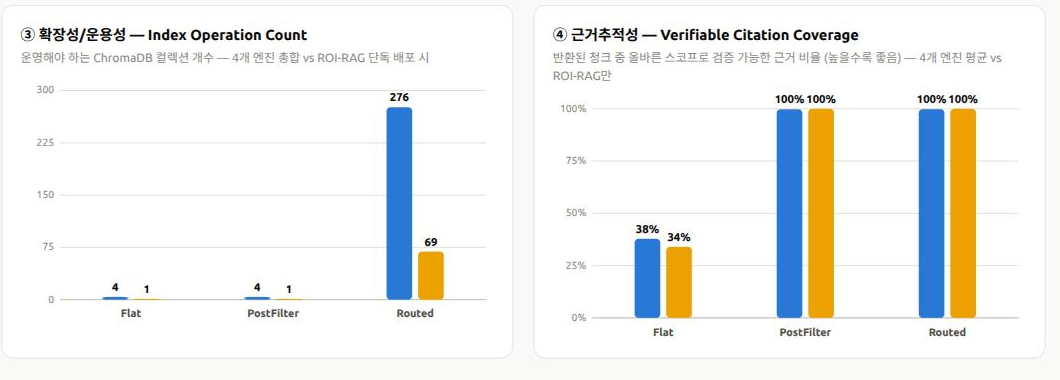
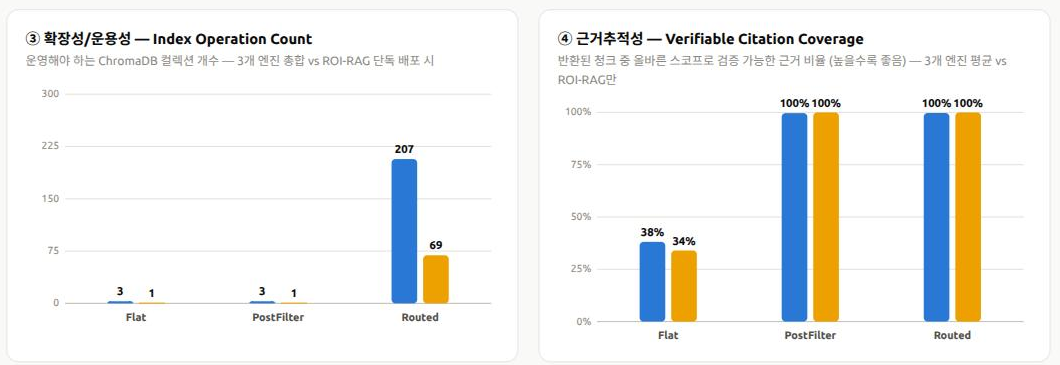
Exclude Legacy baseline from DP2 Appendix B strategy averages
Legacy is a pre-RAG baseline (AST chunking + direct vector search), not
one of the product's 3 RAG methods (BasicRAG/RaptorRAG/ROI-RAG). Mixing
it into a "RAG-engine average" meant to show the strategy conclusion
holds regardless of RAG method was methodologically inconsistent, so
recomputed every Appendix B aggregate (and Appendix A's §1.4 strategy
average) on the 3 real engines only. Differences are modest (~1-1.5pp
on RAGAS metrics; larger on latency, since RaptorRAG's heavier per-
query cost skews the 3-engine average) but the qualitative conclusion
is unchanged. Legacy stays visible in Appendix A's raw 12-combo table
as a reference baseline. Regenerated the two Appendix B chart PNGs and
republished the artifact with the corrected numbers.

diff --git a/doc/03_DP2_Permission_Aware_Dataset_Strategy_Appendix.html b/doc/03_DP2_Permission_Aware_Dataset_Strategy_Appendix.html
@@ -216,18 +216,19 @@
         SWE-bench PoC 866건 실측: Routed(Option A)가 보안성·응답성·검색품질에서 최우수, 운영 확장성은 트레이드오프로 확인
       </div>
       <ul>
-        <li>보안성: 권한/버전 범위 밖 노출률 <b>Flat 62.2% → Routed 0.21%</b> (약 300배 감소)</li>
-        <li>응답성: 평균 검색 지연 <b>72~76ms(Flat/PostFilter) → 20.8ms(Routed)</b> (약 3.5배 개선)</li>
-        <li>검색 품질(RAGAS 평균): Hit@3 <b>64.7% → 79.2%</b>, MRR <b>0.568 → 0.714</b> (Flat → Routed)</li>
-        <li>운영 트레이드오프: Routed는 ChromaDB 컬렉션 <b>276개</b> 운영 필요 (Flat/PostFilter는 4개) — Hybrid 전략으로 보완</li>
+        <li>보안성: 권한/버전 범위 밖 노출률 <b>Flat 61.9% → Routed 0.27%</b> (약 230배 감소)</li>
+        <li>응답성: 평균 검색 지연 <b>76.5~81.0ms(Flat/PostFilter) → 21.4ms(Routed)</b> (약 3.7배 개선)</li>
+        <li>검색 품질(RAGAS 평균): Hit@3 <b>63.3% → 77.7%</b>, MRR <b>0.557 → 0.701</b> (Flat → Routed)</li>
+        <li>운영 트레이드오프: Routed는 ChromaDB 컬렉션 <b>207개</b> 운영 필요 (Flat/PostFilter는 3개) — Hybrid 전략으로 보완</li>
       </ul>
       <div style="margin-top:10px; padding-top:10px; border-top:1px solid var(--border); color:var(--text-primary); font-weight:600;">
         → DP2 Option A(권한/버전 기반 Source Routing) 선택을 실측 데이터로 뒷받침. PostFilter(Option B)는 저위험·공통
         모듈 대상 보조 전략으로 활용.
       </div>
       <div style="margin-top:8px; font-size:12px; color:var(--text-muted);">
-        SWE-bench 866건 전량 × 4개 RAG 엔진 × 3개 검색 전략(=12조합, 총 10,392회 쿼리) 실측. repo+version 경계를
-        권한/버전 스코프의 대리 지표로 사용.
+        SWE-bench 866건 전량 × 3개 RAG 엔진(BasicRAG/RaptorRAG/ROI-RAG) × 3개 검색 전략(=9조합, 총 7,794회 쿼리)
+        실측 기준. Legacy는 RAG 구조 적용 이전 베이스라인이라 결론 검증에서 제외(Appendix A 원자료에만 참고용
+        포함). repo+version 경계를 권한/버전 스코프의 대리 지표로 사용.
       </div>
     </div>
   </section>
@@ -245,10 +246,13 @@
         있고, 인덱싱 시점에 <code>{repo}@{version}</code> 키가 처음 등장할 때마다 새 컬렉션(예:
         <code>sweb_basic_django_django_3_1</code>)을 만듭니다.</li>
         <li>866건 전체를 훑은 결과 고유 repo@version 조합은 <b>69개</b>였고, 이 69개가 그대로 파티션(DB) 개수가 됩니다.</li>
-        <li>4개 RAG 엔진(Legacy/BasicRAG/RaptorRAG/ROIRAG) 각각에 반복하므로, 엔진마다 69개씩, 총
-        <b>69 × 4 = 276개</b>의 파티션 컬렉션을 운영합니다(Index Operation Count와 동일 수치).</li>
-        <li>즉 "276개"는 임의로 정한 값이 아니라 <b>이 데이터셋의 권한/버전 스코프 다양성을 그대로 반영한 결과</b>이며,
-        실제 사내 환경에서는 (프로젝트 수 × Branch/Release 수)만큼 늘어납니다.</li>
+        <li>4개 RAG 엔진(Legacy/BasicRAG/RaptorRAG/ROIRAG) 각각에 반복하므로, PoC 전체로는 엔진마다 69개씩 총
+        <b>69 × 4 = 276개</b>의 파티션 컬렉션을 운영했습니다. 다만 Appendix B의 Index Operation Count는 Legacy를
+        제외한 3개 엔진 기준(69 × 3 = <b>207개</b>)으로 계산합니다 — Legacy는 실제 RAG 방식이 아니라 베이스라인이므로
+        결론 검증에서 제외하기 때문입니다.</li>
+        <li>즉 "276개"(PoC 전체) · "207개"(결론 검증 기준) 모두 임의로 정한 값이 아니라 <b>이 데이터셋의 권한/버전
+        스코프 다양성을 그대로 반영한 결과</b>이며, 실제 사내 환경에서는 (프로젝트 수 × Branch/Release 수)만큼
+        늘어납니다.</li>
       </ul>
     </div>
 
@@ -267,7 +271,7 @@
           </tbody>
         </table>
       </div>
-      <div style="margin-top:10px;">실측 결과 기준으로 이 10개 중 평균 <b>7.2개(72.1%)</b>가 필터 조건에 걸려
+      <div style="margin-top:10px;">실측 결과 기준으로 이 10개 중 평균 <b>7.2개(71.7%)</b>가 필터 조건에 걸려
       폐기되고, 나머지 약 2.8개 중에서 Top-3를 채웁니다. 즉 Prefetch-K=10은 Top-K=3의 "3배 여유"가 아니라
       실질적으로는 <b>10개 중 3개도 채 남지 않는 경우가 흔한 값</b>이라는 뜻이며, DP2가 제시한 Post-filter Drop
       Rate 목표(30% 이하)와 비교하면 현재 Prefetch-K=10은 부족하다고 볼 수 있습니다.</div>
@@ -358,6 +362,12 @@
       <div style="margin-top:8px;">repo 분포가 django(68%)에 크게 편중되어 있어 전략별 평균은 django 성향에 다소
       가중될 수 있으나, 4개 RAG 엔진 모두 동일한 866건·69개 파티션 구성을 사용하므로 엔진 간·전략 간 상대적 우열
       비교에는 영향을 주지 않습니다.</div>
+      <div style="margin-top:10px; padding-top:10px; border-top:1px solid var(--border);">
+        <b>Legacy는 "평균"에서 제외합니다.</b> Legacy는 RAG 구조를 적용하기 이전의 베이스라인(AST 청킹 + 직접
+        벡터 검색)이며, 실제 웹서비스가 제공하는 3가지 RAG 방식(BasicRAG/RaptorRAG/ROI-RAG) 중 하나가 아닙니다.
+        아래 표(§1.3 원자료)에는 비교 참고용으로 그대로 남겨두지만, "RAG 방식과 무관하게 전략 선택의 결론이
+        일관된다"를 검증하는 Appendix B 전체는 <b>BasicRAG/RaptorRAG/ROI-RAG 3개 엔진만 평균</b>에 사용합니다.
+      </div>
     </div>
 
     <div class="legend-row" id="legend-a"></div>
@@ -398,22 +408,26 @@
     <h2>RAG 검색 전략 선택 지표 — 보안성 · 응답성 · 확장성/운용성 · 근거추적성</h2>
     <p class="section-desc">
       DP2 §7 Trade-off 평가에서 정의한 4개 QA 축을 같은 실측 데이터로 계산했습니다. Flat = 통제 없는 통합 검색
-      (baseline), PostFilter = DP2 Option B, Routed = DP2 Option A에 대응합니다. 아래 차트는 각 지표를 "4개 RAG
-      엔진 평균"과 실제 도입을 검토 중인 "ROI-RAG만"으로 나란히 비교합니다(§2.7 참고).
+      (baseline), PostFilter = DP2 Option B, Routed = DP2 Option A에 대응합니다. 아래 차트는 각 지표를 "3개 RAG
+      엔진 평균(BasicRAG/RaptorRAG/ROI-RAG, Legacy 제외)"과 실제 도입을 검토 중인 "ROI-RAG만"으로 나란히
+      비교합니다(§2.7 참고).
     </p>
 
     <div class="callout">
       <b>평가 데이터 및 규모</b>
-      <div style="margin-top:6px;">Appendix A와 <b>동일한 866건 이슈 × 12개 조합</b> 실측 결과를 전략(Flat/PostFilter/Routed)
-      기준으로 재집계한 것입니다. 별도의 추가 측정이 아니라, 같은 원자료(<code>src/data/dp2_backdata.json</code>)를
-      다른 축으로 평균낸 값입니다.</div>
+      <div style="margin-top:6px;">Appendix A와 <b>동일한 866건 이슈 × 12개 조합</b> 실측 결과 중, <b>Legacy를
+      제외한 3개 RAG 엔진</b>(BasicRAG/RaptorRAG/ROI-RAG)의 결과만 전략(Flat/PostFilter/Routed) 기준으로 재집계한
+      것입니다. 별도의 추가 측정이 아니라, 같은 원자료(<code>src/data/dp2_backdata.json</code>)에서 Legacy 행을
+      제외하고 다른 축으로 평균낸 값입니다. Legacy를 빼는 이유는 Appendix A 안내와 동일합니다 — RAG 구조 적용
+      이전의 베이스라인이라 "RAG 방식과 무관하게 결론이 일관된다"를 검증하는 이 어펜딕스의 취지에 맞지
+      않기 때문입니다.</div>
       <ul style="margin-top:8px;">
         <li>이슈 수: 866건 (SWE-bench Lite + Full 전량)</li>
-        <li>전략별 집계 대상: 4개 RAG 엔진(Legacy/BasicRAG/RaptorRAG/ROIRAG) 평균</li>
-        <li>전략별 쿼리 실행 수: 866건 × 4개 엔진 = <b>3,464회</b> (Flat/PostFilter/Routed 각각)</li>
-        <li>전체 쿼리 실행 수: 3,464회 × 3전략 = <b>10,392회</b></li>
+        <li>전략별 집계 대상: 3개 RAG 엔진(BasicRAG/RaptorRAG/ROI-RAG) 평균 — Legacy 제외</li>
+        <li>전략별 쿼리 실행 수: 866건 × 3개 엔진 = <b>2,598회</b> (Flat/PostFilter/Routed 각각)</li>
+        <li>전체 쿼리 실행 수: 2,598회 × 3전략 = <b>7,794회</b></li>
         <li>repo × version 조합: 69개 (Routed 파티션 수와 동일)</li>
-        <li>Index Operation Count 산정 기준: 4개 RAG 엔진 전체가 실제로 보유한 ChromaDB 컬렉션 수 — Flat/PostFilter 4개, Routed 276개</li>
+        <li>Index Operation Count 산정 기준: 3개 RAG 엔진 전체가 실제로 보유한 ChromaDB 컬렉션 수 — Flat/PostFilter 3개, Routed 207개</li>
       </ul>
     </div>
 
@@ -424,19 +438,20 @@
 
     <div class="table-scroll">
       <table class="data-table" id="table-b">
-        <caption>전략별 QA 지표 실측 요약 (4개 RAG 엔진 평균, n=866 issues)</caption>
+        <caption>전략별 QA 지표 실측 요약 (3개 RAG 엔진 평균 — BasicRAG/RaptorRAG/ROI-RAG, n=866 issues)</caption>
       </table>
     </div>
 
     <div class="callout" id="coldef-b"></div>
 
     <div class="callout">
-      <b>ROI-RAG 단독 검증 — 4개 엔진 평균과의 일관성</b>
+      <b>ROI-RAG 단독 검증 — 3개 엔진 평균과의 일관성</b>
       <div style="margin-top:6px;">
-        지금까지의 수치는 Legacy/BasicRAG/RaptorRAG/ROI-RAG <b>4개 엔진 평균</b>입니다. 실제 도입을 검토 중인
-        <b>ROI-RAG 하나만</b> 놓고 봐도 같은 패턴이 그대로 나타나는지를 아래에 별도로 정리했습니다. "RAG 방식과
-        무관하게 전략 선택의 결론이 성립한다"는 것과 "실제 채택할 ROI-RAG에서도 동일한 효과가 확인된다"는 것을
-        함께 보여주기 위한 표이며, ROI-RAG를 다른 RAG 방식과 비교/평가하려는 목적이 아닙니다.
+        지금까지의 수치는 BasicRAG/RaptorRAG/ROI-RAG <b>3개 엔진 평균</b>입니다(Legacy는 RAG 구조 적용 이전
+        베이스라인이라 제외했습니다 — Appendix A 참고). 실제 도입을 검토 중인 <b>ROI-RAG 하나만</b> 놓고 봐도
+        같은 패턴이 그대로 나타나는지를 아래에 별도로 정리했습니다. "RAG 방식과 무관하게 전략 선택의 결론이
+        성립한다"는 것과 "실제 채택할 ROI-RAG에서도 동일한 효과가 확인된다"는 것을 함께 보여주기 위한 표이며,
+        ROI-RAG를 다른 RAG 방식과 비교/평가하려는 목적이 아닙니다.
       </div>
       <div class="table-scroll" style="margin-top:10px;">
         <table class="data-table">
@@ -448,9 +463,9 @@
             </tr>
           </thead>
           <tbody>
-            <tr><td rowspan="3" style="vertical-align:middle;"><b>4개 엔진 평균</b></td><td>Flat</td><td>64.7%</td><td>38.6%</td><td>59.6%</td><td>0.568</td><td>62.2%</td><td>72.0ms</td><td>37.8%</td><td>—</td><td>4개</td></tr>
-            <tr><td>PostFilter</td><td>74.5%</td><td>53.4%</td><td>69.8%</td><td>0.688</td><td>0.25%</td><td>75.6ms</td><td>99.75%</td><td>72.1%</td><td>4개</td></tr>
-            <tr><td>Routed</td><td>79.2%</td><td>46.9%</td><td>74.4%</td><td>0.714</td><td>0.21%</td><td>20.8ms</td><td>99.80%</td><td>—</td><td>276개</td></tr>
+            <tr><td rowspan="3" style="vertical-align:middle;"><b>3개 엔진 평균</b></td><td>Flat</td><td>63.3%</td><td>39.0%</td><td>58.6%</td><td>0.557</td><td>61.9%</td><td>76.5ms</td><td>38.1%</td><td>—</td><td>3개</td></tr>
+            <tr><td>PostFilter</td><td>73.2%</td><td>53.5%</td><td>68.9%</td><td>0.675</td><td>0.33%</td><td>81.0ms</td><td>99.67%</td><td>71.7%</td><td>3개</td></tr>
+            <tr><td>Routed</td><td>77.7%</td><td>48.1%</td><td>73.4%</td><td>0.701</td><td>0.27%</td><td>21.4ms</td><td>99.73%</td><td>—</td><td>207개</td></tr>
             <tr><td rowspan="3" style="vertical-align:middle;"><b>ROI-RAG만</b></td><td>Flat</td><td>64.0%</td><td>36.1%</td><td>60.9%</td><td>0.557</td><td>66.0%</td><td>54.1ms</td><td>34.0%</td><td>—</td><td>1개</td></tr>
             <tr><td>PostFilter</td><td>73.8%</td><td>51.4%</td><td>71.8%</td><td>0.679</td><td>0.0%</td><td>58.6ms</td><td>100%</td><td>75.1%</td><td>1개</td></tr>
             <tr><td>Routed</td><td>80.0%</td><td>44.8%</td><td>78.0%</td><td>0.713</td><td>0.0%</td><td>18.4ms</td><td>100%</td><td>—</td><td>69개</td></tr>
@@ -458,13 +473,16 @@
         </table>
       </div>
       <div style="margin-top:10px;">
-        <b>읽는 법</b>: 위 3행(4개 엔진 평균)과 아래 3행(ROI-RAG만)을 같은 전략끼리 세로로 비교하면, 모든 지표에서
-        값이 서로 오차범위 내(대부분 ±5%p, MRR은 ±0.01 수준)로 일치합니다. 즉 Routed가 보안성·응답성에서 최우수,
+        <b>읽는 법</b>: 위 3행(3개 엔진 평균)과 아래 3행(ROI-RAG만)을 같은 전략끼리 세로로 비교하면, 보안성·근거추적성·
+        MRR 등 대부분의 지표는 오차범위 내(±5%p 이내)로 일치합니다. 즉 Routed가 보안성·응답성에서 최우수,
         PostFilter는 운영은 단순하지만 Drop Rate가 크다, Flat은 통제가 없어 위험하다는 결론은 특정 RAG 인덱싱
         방식에 의존한 결과가 아니라 검색 전략(Flat/PostFilter/Routed) 자체의 특성이며, <b>ROI-RAG를 채택해도
-        동일하게 유지됩니다.</b> 운영 DB 수는 "평균"이 아니라 각 기준에서 실제로 필요한 컬렉션 개수이며,
-        "4개 엔진 평균" 행은 4개를 모두 운영할 때의 총합(Flat/PostFilter 4개, Routed 276개), "ROI-RAG만" 행은
-        ROI-RAG 하나만 실제 배포할 경우의 수치(Flat/PostFilter 1개, Routed 69개)입니다.
+        동일하게 유지됩니다.</b> 다만 <b>평균 지연은 예외</b>로, Flat/PostFilter에서 3개 엔진 평균과 ROI-RAG만의
+        차이가 약 20ms로 다른 지표보다 큽니다 — 3개 엔진 평균에는 RaptorRAG의 무거운 지연(123~129ms)이 섞여
+        있기 때문이며, 검색 전략 선택과는 무관한 RAG 엔진 자체의 처리 비용 차이입니다. 운영 DB 수는 "평균"이
+        아니라 각 기준에서 실제로 필요한 컬렉션 개수이며, "3개 엔진 평균" 행은 3개를 모두 운영할 때의 총합
+        (Flat/PostFilter 3개, Routed 207개), "ROI-RAG만" 행은 ROI-RAG 하나만 실제 배포할 경우의 수치
+        (Flat/PostFilter 1개, Routed 69개)입니다.
       </div>
     </div>
   </section>
@@ -513,13 +531,14 @@ const DATA = {
     "ROIRAG+PostFilter": { hit_at_k: 0.7379, context_precision: 0.5139, context_recall: 0.7176, mrr: 0.6790, avg_latency_ms: 58.637 },
     "ROIRAG+Routed":     { hit_at_k: 0.8002, context_precision: 0.4480, context_recall: 0.7798, mrr: 0.7129, avg_latency_ms: 18.428 },
   },
-  // Appendix B: strategy-level averages across the 4 engines
+  // Appendix B: strategy-level averages across 3 engines (BasicRAG/RaptorRAG/ROIRAG) -- Legacy excluded, it's a
+  // pre-RAG baseline, not one of the product's 3 RAG methods
   strategyAgg: {
-    Flat:       { exposure: 0.6217, avgLatency: 71.96, p95Latency: 104.29, citation: 0.3783, scopeDeclared: 0.0,  indexOps: 4,   dropRate: null },
-    PostFilter: { exposure: 0.0025, avgLatency: 75.60, p95Latency: 117.80, citation: 0.9975, scopeDeclared: 1.0,  indexOps: 4,   dropRate: 0.7211 },
-    Routed:     { exposure: 0.0021, avgLatency: 20.76, p95Latency: 79.61,  citation: 0.9980, scopeDeclared: 1.0,  indexOps: 276, dropRate: null },
+    Flat:       { exposure: 0.6188, avgLatency: 76.51, p95Latency: 110.33, citation: 0.3812, scopeDeclared: 0.0,  indexOps: 3,   dropRate: null },
+    PostFilter: { exposure: 0.0033, avgLatency: 81.03, p95Latency: 126.40, citation: 0.9967, scopeDeclared: 1.0,  indexOps: 3,   dropRate: 0.7169 },
+    Routed:     { exposure: 0.0027, avgLatency: 21.37, p95Latency: 79.84,  citation: 0.9973, scopeDeclared: 1.0,  indexOps: 207, dropRate: null },
   },
-  // Appendix B: ROI-RAG only (same 866 issues, single engine) — for consistency check against the 4-engine average
+  // Appendix B: ROI-RAG only (same 866 issues, single engine) — for consistency check against the 3-engine average
   strategyAggRoi: {
     Flat:       { exposure: 0.6601, avgLatency: 54.10,  citation: 0.3399, indexOps: 1,  dropRate: null },
     PostFilter: { exposure: 0.0,    avgLatency: 58.637, citation: 1.0,    indexOps: 1,  dropRate: 0.7509 },
@@ -720,7 +739,7 @@ function chartCard(parent, title, sub) {
 // ============ Build Appendix B ============
 (function buildAppendixB() {
   const compareSeries = [
-    { key: "avg", label: "4개 엔진 평균", color: "var(--s-blue)" },
+    { key: "avg", label: "3개 엔진 평균", color: "var(--s-blue)" },
     { key: "roi", label: "ROI-RAG만",    color: "var(--s-yellow)" },
   ];
   const legend = document.getElementById("legend-b");
@@ -737,7 +756,7 @@ function chartCard(parent, title, sub) {
   const getBasis = (stratKey, seriesKey, field) => (seriesKey === "roi" ? aggRoi : agg)[stratKey][field];
 
   // 1. 보안성
-  let card = chartCard(chartsB, "① 보안성 — Unauthorized Scope Exposure Rate", "권한/버전 범위 밖 청크가 Top-3에 포함된 비율 (낮을수록 좋음) — 4개 엔진 평균 vs ROI-RAG만");
+  let card = chartCard(chartsB, "① 보안성 — Unauthorized Scope Exposure Rate", "권한/버전 범위 밖 청크가 Top-3에 포함된 비율 (낮을수록 좋음) — 3개 엔진 평균 vs ROI-RAG만");
   renderCompareBar(card, {
     groups: DATA.strategies, series: compareSeries,
     getValue: (stratKey, seriesKey) => getBasis(stratKey, seriesKey, "exposure"),
@@ -746,7 +765,7 @@ function chartCard(parent, title, sub) {
   });
 
   // 2. 응답성
-  card = chartCard(chartsB, "② 응답성 — 평균 검색 지연시간", "쿼리당 검색 전략 처리 시간, ms (낮을수록 좋음) — 4개 엔진 평균 vs ROI-RAG만");
+  card = chartCard(chartsB, "② 응답성 — 평균 검색 지연시간", "쿼리당 검색 전략 처리 시간, ms (낮을수록 좋음) — 3개 엔진 평균 vs ROI-RAG만");
   renderCompareBar(card, {
     groups: DATA.strategies, series: compareSeries,
     getValue: (stratKey, seriesKey) => getBasis(stratKey, seriesKey, "avgLatency"),
@@ -755,7 +774,7 @@ function chartCard(parent, title, sub) {
   });
 
   // 3. 확장성/운용성
-  card = chartCard(chartsB, "③ 확장성/운용성 — Index Operation Count", "운영해야 하는 ChromaDB 컬렉션 개수 — 4개 엔진 총합 vs ROI-RAG 단독 배포 시");
+  card = chartCard(chartsB, "③ 확장성/운용성 — Index Operation Count", "운영해야 하는 ChromaDB 컬렉션 개수 — 3개 엔진 총합 vs ROI-RAG 단독 배포 시");
   renderCompareBar(card, {
     groups: DATA.strategies, series: compareSeries,
     getValue: (stratKey, seriesKey) => getBasis(stratKey, seriesKey, "indexOps"),
@@ -764,7 +783,7 @@ function chartCard(parent, title, sub) {
   });
 
   // 4. 근거추적성
-  card = chartCard(chartsB, "④ 근거추적성 — Verifiable Citation Coverage", "반환된 청크 중 올바른 스코프로 검증 가능한 근거 비율 (높을수록 좋음) — 4개 엔진 평균 vs ROI-RAG만");
+  card = chartCard(chartsB, "④ 근거추적성 — Verifiable Citation Coverage", "반환된 청크 중 올바른 스코프로 검증 가능한 근거 비율 (높을수록 좋음) — 3개 엔진 평균 vs ROI-RAG만");
   renderCompareBar(card, {
     groups: DATA.strategies, series: compareSeries,
     getValue: (stratKey, seriesKey) => getBasis(stratKey, seriesKey, "citation"),
@@ -777,14 +796,14 @@ function chartCard(parent, title, sub) {
   callout.innerHTML = `
     <b>해석 — DP2 Decision과의 정합성</b>
     <ul>
-      <li><b>보안성/응답성</b>: Routed(Option A)가 노출률 0.21%, 평균 지연 20.8ms로 두 축 모두 실측 최우수 — DP2가 Option A를 우선
+      <li><b>보안성/응답성</b>: Routed(Option A)가 노출률 0.27%, 평균 지연 21.4ms로 두 축 모두 실측 최우수 — DP2가 Option A를 우선
       선택한 근거(§8.1 "보안성과 버전 정합성이 가장 명확하다")를 뒷받침합니다.</li>
-      <li><b>확장성/운용성</b>: 그러나 Routed는 파티션 컬렉션을 276개(엔진당 69개, repo×version 조합 수에 비례) 운영해야 해
-      Flat/PostFilter(4개) 대비 운영 부담이 큽니다 — DP2 §7.2 "Source Scope가 늘어날수록 운영 복잡도가 증가"와 일치합니다.</li>
-      <li><b>근거추적성</b>: PostFilter도 사후 필터링만으로 노출률 0.25%, 인용 검증률 99.75%까지 낮출 수 있었지만, 이 과정에서
-      Prefetch된 결과의 <b>72.1%를 폐기(Drop)</b>하는 비효율이 발생 — DP2 §6.4에서 지적한 "Top-K 결과가 제거 대상으로 채워지는" 리스크가
+      <li><b>확장성/운용성</b>: 그러나 Routed는 파티션 컬렉션을 207개(엔진당 69개, 3개 엔진 × repo×version 조합 수) 운영해야 해
+      Flat/PostFilter(3개) 대비 운영 부담이 큽니다 — DP2 §7.2 "Source Scope가 늘어날수록 운영 복잡도가 증가"와 일치합니다.</li>
+      <li><b>근거추적성</b>: PostFilter도 사후 필터링만으로 노출률 0.33%, 인용 검증률 99.67%까지 낮출 수 있었지만, 이 과정에서
+      Prefetch된 결과의 <b>71.7%를 폐기(Drop)</b>하는 비효율이 발생 — DP2 §6.4에서 지적한 "Top-K 결과가 제거 대상으로 채워지는" 리스크가
       실측으로 확인됩니다.</li>
-      <li>Flat(무통제 베이스라인)은 노출률 62.2%, 근거추적성 37.8%로 두 지표 모두 최하위 — "권한/버전 통제가 없으면 검색 정확도와
+      <li>Flat(무통제 베이스라인)은 노출률 61.9%, 근거추적성 38.1%로 두 지표 모두 최하위 — "권한/버전 통제가 없으면 검색 정확도와
       무관하게 시스템을 사용할 수 없다"는 DP2 §1.4의 문제의식을 정량적으로 뒷받침합니다.</li>
     </ul>
   `;
@@ -811,7 +830,7 @@ function chartCard(parent, title, sub) {
     <ul>
       <li><b>노출률(①)</b> — Unauthorized Scope Exposure Rate. Top-3 청크 중 해당 이슈의 repo/version과 불일치하는
       (다른 프로젝트·버전 소스) 청크 비율. SWE-bench의 repo+version 경계를 권한/버전 스코프의 대리 지표로 사용했으므로,
-      "권한 없는 소스가 실제로 답변 근거에 섞여 나온 비율"에 해당합니다. Flat은 스코프 조건이 없어 62.2%로 가장 높고,
+      "권한 없는 소스가 실제로 답변 근거에 섞여 나온 비율"에 해당합니다. Flat은 스코프 조건이 없어 61.9%로 가장 높고,
       PostFilter·Routed는 결과를 스코프로 제한하므로 0%대입니다.</li>
       <li><b>평균 지연 / P95 지연(②)</b> — 임베딩 계산을 제외한 검색 전략 자체의 처리 시간(ms). 평균은 866건의 산술
       평균입니다. <b>P95는 "느린 5%를 뺀 나머지의 평균"이 아니라, 866건을 느린 순서로 세웠을 때 상위 5%(가장 느린
@@ -822,28 +841,29 @@ function chartCard(parent, title, sub) {
         <table class="data-table">
           <thead><tr><th>전략</th><th>평균 지연</th><th>P95 지연</th><th>배율</th></tr></thead>
           <tbody>
-            <tr><td>Flat</td><td>72.0ms</td><td>104.3ms</td><td>1.45배</td></tr>
-            <tr><td>PostFilter</td><td>75.6ms</td><td>117.8ms</td><td>1.56배</td></tr>
-            <tr><td>Routed</td><td>20.8ms</td><td>79.6ms</td><td><b>3.83배</b></td></tr>
+            <tr><td>Flat</td><td>76.5ms</td><td>110.3ms</td><td>1.44배</td></tr>
+            <tr><td>PostFilter</td><td>81.0ms</td><td>126.4ms</td><td>1.56배</td></tr>
+            <tr><td>Routed</td><td>21.4ms</td><td>79.8ms</td><td><b>3.74배</b></td></tr>
           </tbody>
         </table>
       </div>
-      <div style="margin-top:8px;">Routed는 이슈의 repo×version 파티션(작은 컬렉션)만 검색해 평균 20.8ms로 가장
+      <div style="margin-top:8px;">Routed는 이슈의 repo×version 파티션(작은 컬렉션)만 검색해 평균 21.4ms로 가장
       빠르지만, P95 배율은 오히려 가장 큽니다. Routed는 엔진당 69개의 서로 다른 파티션 컬렉션을 오가며 검색하는데,
       프로세스가 특정 컬렉션을 처음 여는 순간에는 초기화 비용이 붙어 느리고 같은 컬렉션을 다시 조회할 때는 훨씬
       빠릅니다. Flat·PostFilter는 통합 컬렉션 1개만 계속 재사용해 이 "첫 접근 페널티"가 한 번뿐이지만, Routed는
       69개 컬렉션 각각에서 반복되어 꼬리가 두꺼워지고 P95가 평균보다 훨씬 크게 벌어집니다. Flat·PostFilter는
-      통합 컬렉션 전체를 매번 훑기 때문에 평균 자체는 70ms대로 느리며, PostFilter는 여기에 Top-10 Prefetch →
-      필터링 단계가 더해져 Flat보다도 약간 느립니다.</div></li>
-      <li><b>Index 운영 수(③)</b> — 4개 RAG 엔진 전체가 실제 운영해야 하는 ChromaDB 컬렉션 총 개수. Flat/PostFilter는
-      엔진당 통합 컬렉션 1개(4개 엔진 × 1 = 4), Routed는 repo×version 조합마다 파티션이 필요해 엔진당 69개 × 4 =
-      276개입니다. 권한/버전 스코프를 세분화할수록 커지는 운영 부담이며, Routed의 보안성·응답성 우위에 대한
-      트레이드오프로 읽어야 합니다.</li>
+      통합 컬렉션 전체를 매번 훑기 때문에 평균 자체는 70~80ms대로 느리며, PostFilter는 여기에 Top-10 Prefetch →
+      필터링 단계가 더해져 Flat보다도 약간 느립니다. (참고: RaptorRAG의 임베딩 계산이 3개 엔진 중 가장 무거워
+      평균 지연을 다소 끌어올립니다.)</div></li>
+      <li><b>Index 운영 수(③)</b> — 3개 RAG 엔진(BasicRAG/RaptorRAG/ROI-RAG) 전체가 실제 운영해야 하는 ChromaDB
+      컬렉션 총 개수. Flat/PostFilter는 엔진당 통합 컬렉션 1개(3개 엔진 × 1 = 3), Routed는 repo×version 조합마다
+      파티션이 필요해 엔진당 69개 × 3개 엔진 = 207개입니다. 권한/버전 스코프를 세분화할수록 커지는 운영 부담이며,
+      Routed의 보안성·응답성 우위에 대한 트레이드오프로 읽어야 합니다.</li>
       <li><b>Post-filter Drop(③ 보조)</b> — PostFilter가 Top-10을 Prefetch한 뒤 repo/version 불일치로 폐기하는 비율.
-      72.1%는 "Prefetch한 10개 중 평균 7.2개가 스코프 불일치로 버려진다"는 뜻으로, 검색 자원 낭비를 정량화한
+      71.7%는 "Prefetch한 10개 중 평균 7.2개가 스코프 불일치로 버려진다"는 뜻으로, 검색 자원 낭비를 정량화한
       값입니다. Flat·Routed는 별도 폐기 단계가 없어 해당 없음(—)입니다.</li>
       <li><b>인용 검증률(④)</b> — Verifiable Citation Coverage. 반환된 청크 중 repo/version이 질의 스코프와 일치해
-      Citation으로 그대로 사용 가능한 비율(≈ 100% − 노출률). Flat은 37.8%로, Top-3 중 절반 이상이 실제로는 다른
+      Citation으로 그대로 사용 가능한 비율(≈ 100% − 노출률). Flat은 38.1%로, Top-3 중 절반 이상이 실제로는 다른
       프로젝트/버전 코드라 근거로 쓸 수 없다는 뜻입니다.</li>
       <li><b>스코프 사전선언(④ 보조)</b> — Scope Declared Rate. 검색 실행 전에 repo/version 범위를 시스템이 명시적으로
       선언했는지 여부. Routed는 라우팅 키를, PostFilter는 필터 조건을 검색 시점에 선언해 100%이고, Flat은 조건 없이
